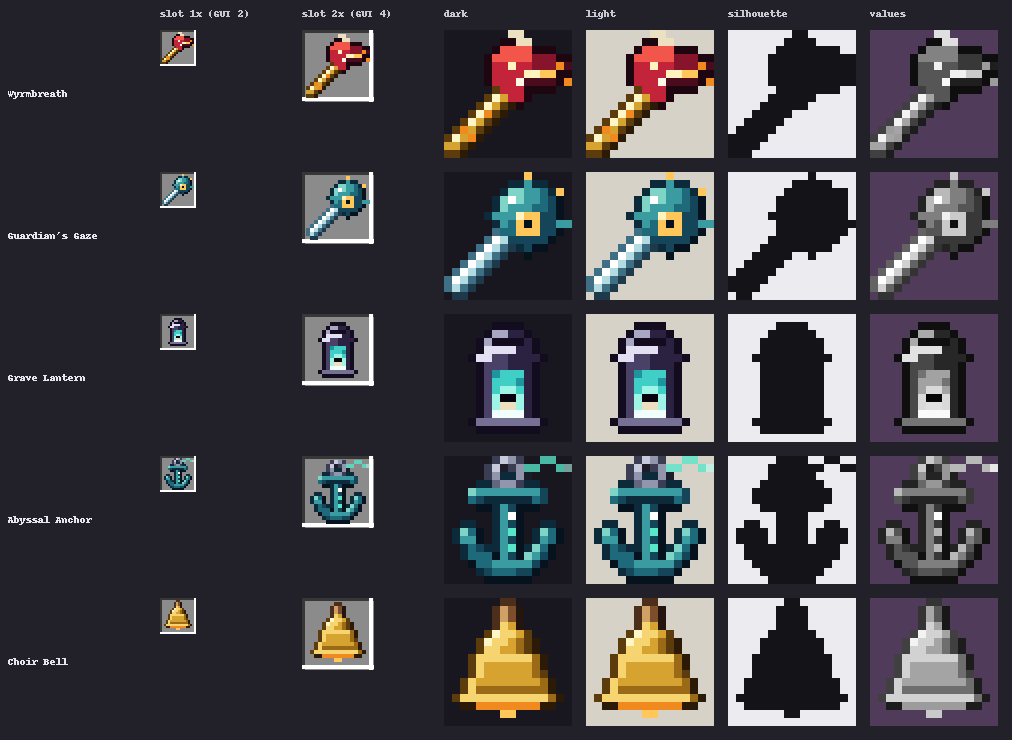
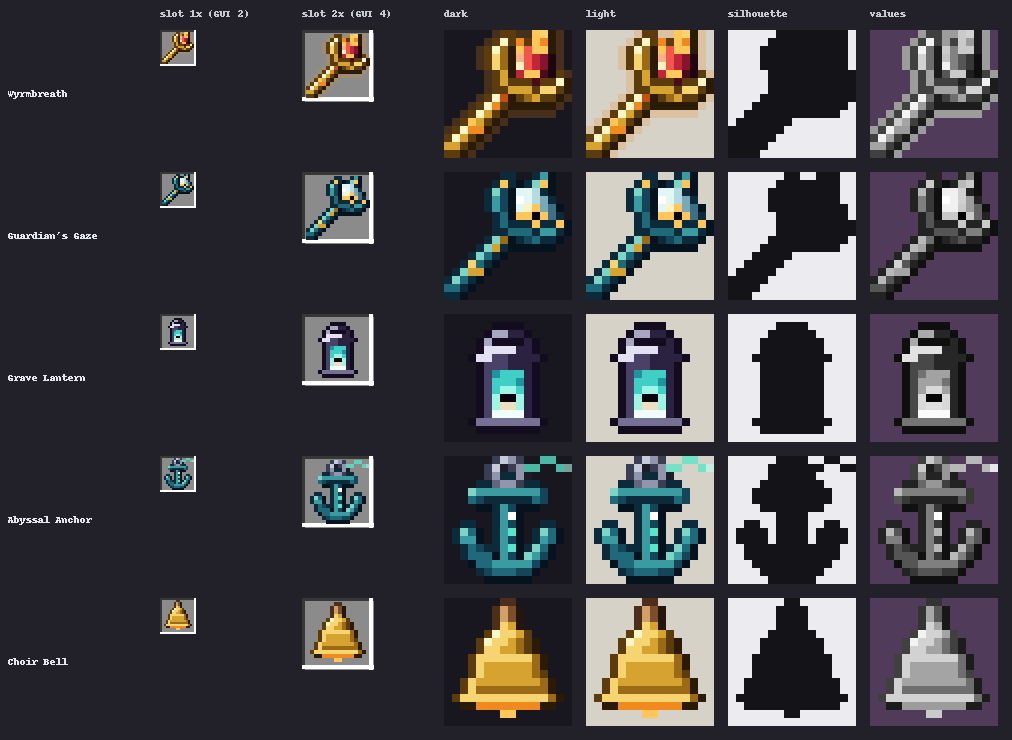
Session E review fixes: Abyssal sigil medallion, volumetric Choir Ember, fire and guardian scepters drawn as 3D objects

diff --git a/tools/art/session_e.py b/tools/art/session_e.py
@@ -76,23 +76,27 @@ def tide_glass(frame=0):
 
 
 def abyssal_sigil(frame=0):
-    """The tier-2 core component: a drop-shaped plaque of abyssal metal (T0 diamond, T1 medallion, T2 drop) carrying
-    the Abyssal sigil - an eye over waves in sea glow, a pearl for its pupil. Animated: the eye blinks, a twinkle."""
+    """The tier-2 core component: a medallion carrying the Abyssal sigil (Session B) - an abyssal ring round a dark
+    face, a sea-glow eye watching from it, waves below. Exactly symmetric. Animated: the eye blinks, a twinkle."""
     icon = Icon(16)
-    ab, sg, bone = RAMPS["abyss"], RAMPS["seaglow"], RAMPS["chalk"]
-    drop = icon.sphere(8.0, 9.6, 5.8) | icon.polygon([(3.0, 7.0), (13.0, 7.0), (8.0, 0.4)], bevel=1.6)
-    icon.paint(drop, ab, bias=0.1)
-    face = icon.sphere(8.0, 9.4, 3.8)
-    for p in face.keys():
-        put(icon, [p], ab[1])
+    ab, sg = RAMPS["abyss"], RAMPS["seaglow"]
+    rim = icon.ring(8.0, 8.0, 7.4, 5.6)
+    icon.paint(rim, ab, bias=0.25)
+    face = icon.sphere(8.0, 8.0, 5.7)
+    icon.paint(face, ab, outline=False, flat=0)
+    put(icon, [p for p in face.keys() if p[0] + p[1] < 10], ab[1])
     blink = frame % 4 == 3
     if blink:
-        put(icon, [(x, 9) for x in range(5, 11)], sg[3])
+        put(icon, [(x, 7) for x in range(4, 12)], sg[3])
     else:
-        put(icon, [(5, 9), (10, 9), (6, 8), (7, 8), (8, 8), (9, 8), (6, 10), (7, 10), (8, 10), (9, 10)], sg[3])
-        put(icon, [(7, 9), (8, 9)], bone[5])
+        lids = [(4, 7), (5, 6), (6, 5), (7, 5), (8, 5), (9, 5), (10, 6), (11, 7),
+                (5, 8), (6, 9), (7, 9), (8, 9), (9, 9), (10, 8)]
+        put(icon, lids, sg[3])
+        put(icon, [(6, 7), (7, 6), (8, 6), (9, 7), (7, 8), (8, 8), (6, 6), (9, 6)], sg[1])
+        put(icon, [(7, 7), (8, 7)], sg[5] if frame % 4 == 1 else sg[4])
+    put(icon, [(5, 11), (6, 12), (7, 11), (8, 11), (9, 12), (10, 11)], sg[2])   # the waves, gentle and low
     mirror_silhouette(icon)
-    icon.twinkle(13, 2, [0, 1, 3, 1][frame % 4], sg)
+    icon.twinkle(14, 1, [0, 1, 2, 1][frame % 4], sg)
     return icon
 
 
@@ -200,19 +204,23 @@ def nautilus_core(frame=0):
 
 
 def choir_ember(frame=0):
-    """A flame crystallised mid-flicker: a faceted ember shaped like a flame (lit and shadow facets, gold to deep red),
-    sparks drifting off it (animated)."""
+    """A flame crystallised mid-flicker, with real volume: a bevelled crystal shaded by the light (lit left, shadowed
+    right), a gold ridge down its spine, a white-hot core showing through, a soft glow and sparks (animated)."""
     icon = Icon(16)
     em, gd = RAMPS["ember"], RAMPS["gold"]
-    outline_pts = [(8.0, 0.6), (11.2, 5.4), (13.0, 4.0), (13.4, 9.6), (11.0, 14.6), (5.0, 14.6), (2.6, 9.6), (3.4, 5.2),
-                   (5.4, 6.4)]
-    flame = icon.polygon(outline_pts, bevel=1.0)
-    for (x, y) in flame.keys():   # facets: lit left, hot middle, dark right
-        f = 4 if x < 6 else 5 if x < 9 and y > 6 else 3 if x < 10 else 2
-        put(icon, [(x, y)], em[f])
-    put(icon, line_px((8.0, 1.0), (7.0, 13.0)), gd[5])
-    put(icon, [(x, 14) for x in range(5, 11)], em[1])
-    icon.outline(flame, [em[0], em[1]], over=False)
+    outline_pts = [(8.0, 0.6), (11.0, 5.2), (12.8, 3.8), (13.4, 9.6), (11.2, 14.6), (4.8, 14.6), (2.6, 9.6), (3.4, 5.0),
+                   (5.2, 6.4)]
+    flame = icon.polygon(outline_pts, bevel=3.2)
+    icon.paint(flame, em, bias=-0.05, outline_ramp=[em[0], em[1]])
+    pulse = [0.0, 0.2, 0.35, 0.15][frame % 4]
+    core = icon.sphere(7.6, 10.2, 2.6, squash=1.3)
+    for (x, y) in core.keys():
+        d = math.hypot(x + 0.5 - 7.6, (y + 0.5 - 10.2) / 1.3)
+        put(icon, [(x, y)], em[5] if d < 1.0 + pulse * 2 else em[4])
+    put(icon, line_px((8.0, 1.6), (7.6, 7.4)), gd[5])           # the spine ridge
+    put(icon, line_px((11.6, 5.6), (11.0, 10.0)), gd[4])         # a side ridge
+    put(icon, [(5, 7), (4, 8), (5, 6)], em[5])                    # light on the lit facet
+    icon.glow(em[3], radius=1.4, strength=0.28)
     sparks = [[(14, 2)], [(14, 1), (1, 4)], [(1, 3)], [(15, 6)]][frame % 4]
     put(icon, sparks, gd[4])
     return icon
@@ -265,61 +273,70 @@ E2 = [("Abyssal Lens", abyssal_lens, 4), ("Nautilus Core", nautilus_core, 4), ("
 
 # ================================================================== E3: weapons and the Choir Bell
 
-DRAGON = [  # x 6..15, y 0..8: horns, head, ember eye, open jaws (the fire goes in the gap), neck
-    "..kk......",
-    "...kk.....",
-    ".HHHH.....",
-    "HHHHHHHH..",
-    "HHeHHHHHHn",
-    "HHHH......",
-    "HHHtjjjj..",
-    ".HHH......",
-    "..HH......",
-]
+def scepter(icon, rod_ramp, band_ramp, prong_ramp, tip_colour):
+    """The shared scepter build, drawn as its future 3D model would look: a shaded rod with bands and a collar, three
+    claw prongs from the collar - one behind the head, two in front - cradling whatever sits at (10.6, 5.2).
+    Returns a function that paints the front prongs (call it after the head)."""
+    rod = icon.tubes([((1.4, 14.6), (8.2, 7.8))], 0.95)
+    icon.paint(rod, rod_ramp, bias=0.05)
+    for (x, y) in rod.keys():
+        if (x + (15 - y)) in (6, 7, 12):
+            put(icon, [(x, y)], band_ramp[4] if x + y < 15 else band_ramp[3])
+    collar = icon.sphere(8.6, 7.4, 1.8)
+    icon.paint(collar, band_ramp, bias=0.15, outline_over=False)
+
+    def prong(points, over=False):
+        part = icon.tubes(list(zip(points, points[1:])), 0.75)
+        icon.paint(part, prong_ramp, bias=0.15, outline_over=over)
+        tip = points[-1]
+        put(icon, [(math.floor(tip[0]), math.floor(tip[1]))], tip_colour)
+
+    prong([(8.6, 7.4), (11.0, 3.4), (12.6, 1.2)])              # the back prong, behind the head
+
+    def front():
+        prong([(8.6, 7.4), (7.2, 5.2), (7.0, 2.8), (7.8, 1.4)], over=True)    # in front: a dark edge separates
+        prong([(8.6, 7.4), (11.2, 8.4), (13.4, 7.8), (14.6, 6.4)], over=True)  # them from the head behind
+    return front
 
 
 def wyrmbreath(frame=0):
-    """A gold rod with ember bands, crowned with a crimson dragon's head - bone horns, an ember eye, jaws open on a
-    tongue of fire that flickers (animated)."""
+    """A fire scepter: a gold rod with ember bands and a collar, three gold dragon-claw prongs cradling a blazing ember
+    orb; flames rise from it and flicker (animated)."""
     icon = Icon(16)
-    gd, em, cr, bone = RAMPS["gold"], RAMPS["ember"], RAMPS["crimson"], RAMPS["bone"]
-    rod = icon.tubes([((1.4, 14.6), (8.0, 8.0))], 1.0)
-    icon.paint(rod, gd, bias=0.0)
-    for (x, y) in rod.keys():
-        if (x + (15 - y)) % 5 == 0:
-            put(icon, [(x, y)], em[3])
-    mask = {(6 + x, y) for y, row in enumerate(DRAGON) for x, c in enumerate(row) if c in "Hejtn"}
-    for (x, y) in mask:
-        put(icon, [(x, y)], cr[4] if y <= 3 and x < 11 else cr[3] if x < 11 else cr[2])
-    pixmap(icon, DRAGON, 6, 0, {"k": bone[4], "e": em[5], "j": cr[1], "t": bone[5], "n": cr[1]})
-    icon.outline(Part({p: (0, 0, 1) for p in mask}), [cr[0], cr[0]], over=False)
-    flick = frame % 4
-    tongue = [(10, 5), (11, 5), (12, 5), (13, 5), (14, 5), (15, 5)]
-    put(icon, tongue[: 4 + flick % 3], em[4])
-    put(icon, tongue[:2], em[5])
-    put(icon, [(14, 4 + (flick % 2) * 2), (15, 4 if flick in (1, 2) else 6)], em[3])
+    gd, em = RAMPS["gold"], RAMPS["ember"]
+    front = scepter(icon, gd, em, gd, gd[5])
+    cr = RAMPS["crimson"]
+    pulse = [0.15, 0.3, 0.2, 0.35][frame % 4]
+    orb = icon.sphere(10.6, 5.2, 2.9)
+    icon.paint(orb, cr, bias=pulse, outline_ramp=[cr[0], cr[0]], outline_over=False)   # a blazing red orb in gold claws
+    put(icon, [(10, 5), (11, 5), (10, 6)], em[4])
+    put(icon, [(9, 4)], em[5])
+    front()
+    # flames licking up off the orb
+    k = frame % 4
+    for (x, h, ph) in ((9, 2, 0), (11, 3, 1), (12, 2, 2)):
+        hh = h + [0, 1, 0, 1][(k + ph) % 4]
+        for i in range(hh):
+            put(icon, [(x + (1 if i == hh - 1 and (k + ph) % 2 else 0), 2 - i)], em[4] if i < hh - 1 else em[3])
+    icon.glow(em[3], radius=1.3, strength=0.22)
     return icon
 
 
 def guardians_gaze(frame=0):
-    """A pale prismarine wand topped with a guardian's eye: a teal orb with a big orange eye and a slit pupil that
-    looks about, three short orange-tipped spikes (animated)."""
+    """The guardian's scepter: a prismarine rod with gold bands, the guardian's spikes become three orange-tipped claw
+    prongs cradling a glossy eyeball whose orange iris looks about (animated)."""
     icon = Icon(16)
-    ab, wd, em, sg = RAMPS["abyss"], RAMPS["wind"], RAMPS["ember"], RAMPS["seaglow"]
-    rod = icon.tubes([((1.4, 14.6), (8.0, 8.0))], 0.8)
-    icon.paint(rod, wd, bias=0.0)
-    for (dx, dy) in ((0, -1), (1, 0), (0.7071, -0.7071)):   # three short spikes
-        tip = (10.4 + dx * 5.4, 5.6 + dy * 5.4)
-        put(icon, line_px((10.4 + dx * 4.0, 5.6 + dy * 4.0), tip), ab[4])
-        put(icon, [(round(tip[0]), round(tip[1]))], em[4])
-    orb = icon.sphere(10.4, 5.6, 4.0)
-    icon.paint(orb, ab, bias=0.2, outline_ramp=[ab[0], ab[1]], outline_over=False)
+    ab, gd, em, wd = RAMPS["abyss"], RAMPS["gold"], RAMPS["ember"], RAMPS["wind"]
+    front = scepter(icon, ab, gd, ab, em[4])
+    eye = icon.sphere(10.6, 5.2, 3.0)
+    icon.paint(eye, wd, bias=0.1, outline_ramp=[ab[0], ab[1]], outline_over=False)
     lx, ly = [(0, 0), (1, 0), (0, 1), (-1, 0)][frame % 4]
-    iris = [(x + lx, y + ly) for x in (9, 10, 11) for y in (5, 6, 7)]
+    iris = [(x + lx, y + ly) for x in (10, 11) for y in (4, 5, 6)] + [(9 + lx, 5 + ly), (12 + lx, 5 + ly)]
     put(icon, iris, em[4])
-    put(icon, [(9 + lx, 5 + ly)], em[5])
-    put(icon, [(10 + lx, 6 + ly)], ab[0])   # one round pupil (a slit split the iris into two "eyes")
-    put(icon, [(8, 3)], sg[5])
+    put(icon, [(10 + lx, 4 + ly)], em[5])
+    put(icon, [(11 + lx, 5 + ly)], RAMPS["ink"][0])
+    put(icon, [(9, 3)], wd[5])
+    front()
     return icon
 
 

diff --git a/docs/art/SESSIONS.md b/docs/art/SESSIONS.md
@@ -9,7 +9,7 @@ Style rules and the checklist: [STYLE.md](STYLE.md). Plan: [../visual-overhaul.m
 | **B** | Sigils, runes, gems/crown/halo, animated soul flame and sparkle, step marks, paw | **Done** - approved, cleaned up |
 | **C** | Tier-0 item icons (15 + bow states; the 8 placed blocks move to G) | **Done** - codex redone after review |
 | **D** | Tier-1 item icons (23; the 6 placed blocks move to G) | **Done** - fixed after review |
-| **E** | Tier-2 item icons (26: materials, drops, weapons, armor, decor objects) | **Done** - awaiting review |
+| **E** | Tier-2 item icons (26: materials, drops, weapons, armor, decor objects) | **Done** - fixed after review |
 | F | Tier-3 item icons | - |
 | G | Block faces and floor decals (incl. tier-0 blocks: altars, pedestal, bowl, glyph, trophy board, tile, Brood Egg; tier-1 blocks: Bound Glyph, Bound Altar, Phantom Roost, Frenzy Idol, Servitor Shrine, Floor Sigil; tier-2 blocks: Occult Forge, Soul Condenser, Abyssal Glyph, Abyssal Altar, Guardian Eye, Pearl Bed, Ember Brazier, Abyssal Lantern, Tidal Tile, Prismatic Netherrack) **and held 3D models** (first: the Occult Codex as a 3D book - see *Notes for G*) | - |
 | H | Menu backgrounds | - |
@@ -248,6 +248,8 @@ Iron's Spells 'n Spellbooks for the codex. Focus on item icons for now; keep not
   elements - with its own texture sheet in the codex's palette (leather, iron, bone pages, ember jewel). The item model
   definition picks by display context (`minecraft:select` on `minecraft:display_context`): `gui` (and `ground`) show
   the 2D icon, hands/head/fixed show the 3D book. Same pattern for any other held item that needs a real shape.
+- **Scepters (Wyrmbreath, Guardian's Gaze):** held 3D models following their icons - rod, collar, three claw prongs
+  (one behind, two in front) round the orb/eye; the orb glows (emissive) and the eye can turn.
 - **Abyssal Anchor held model:** the icon is upright (an anchor only reads upright); in the hand it should be a 3D
   anchor held by its ring, flukes as the head, with the spectral chain - same display-context switch as the codex.
 - **Abyssal armor worn texture:** the icons are done (Session E); the worn look needs an `equippable` asset layer
@@ -351,4 +353,22 @@ cross rune on an obelisk).
   with a model later.
 - Spirals and coils: use nested shapes, not lines.
 - A "familiar" silhouette must survive our recolour: a dark narrow-capped lantern stops being a lantern.
+
+### Session E review round (user)
+"Great work on the rest." Fixed:
+- **Abyssal Sigil** - now the Abyssal sigil of Session B as a medallion: an abyssal ring, a dark face, a sea-glow eye
+  (blinks), waves low beneath it; exactly symmetric. (So the core components are the three tier sigils: Initiate's
+  diamond plaque, the Bound medallion, the Abyssal medallion.)
+- **Choir Ember** - was flat; now a bevelled crystal flame shaded by the light, a gold spine ridge, a white-hot core
+  showing through that pulses, a soft glow.
+- **Wyrmbreath** - the dragon head looked goofy; now a fire scepter: a gold rod with ember bands and a collar, three
+  gold dragon-claw prongs cradling a blazing red orb, flames rising. First try was one orange blob (ember orb in gold
+  claws) - a crimson orb and dark edges where the front prongs cross it fixed that.
+- **Guardian's Gaze** - drawn as its future 3D model would look: the same scepter build in prismarine and gold, the
+  guardian's spikes become orange-tipped claw prongs cradling a glossy eyeball that looks about.
+- Both scepters share `scepter()`: back prong behind the head, front prongs over it - the layering a 3D held model
+  will have (noted for Session G with the codex and anchor).
+
+**Lesson:** for held items, design the icon as a view of the 3D object (what's behind, what's in front) - it reads
+as more solid, and the held model in G can follow it directly.
 
